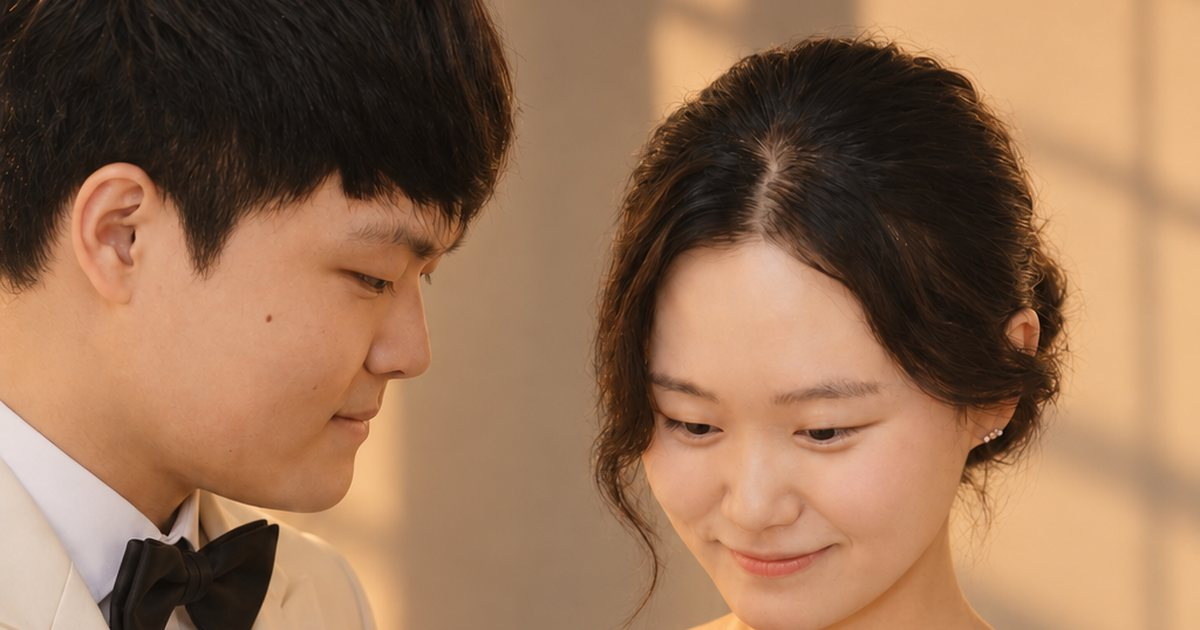
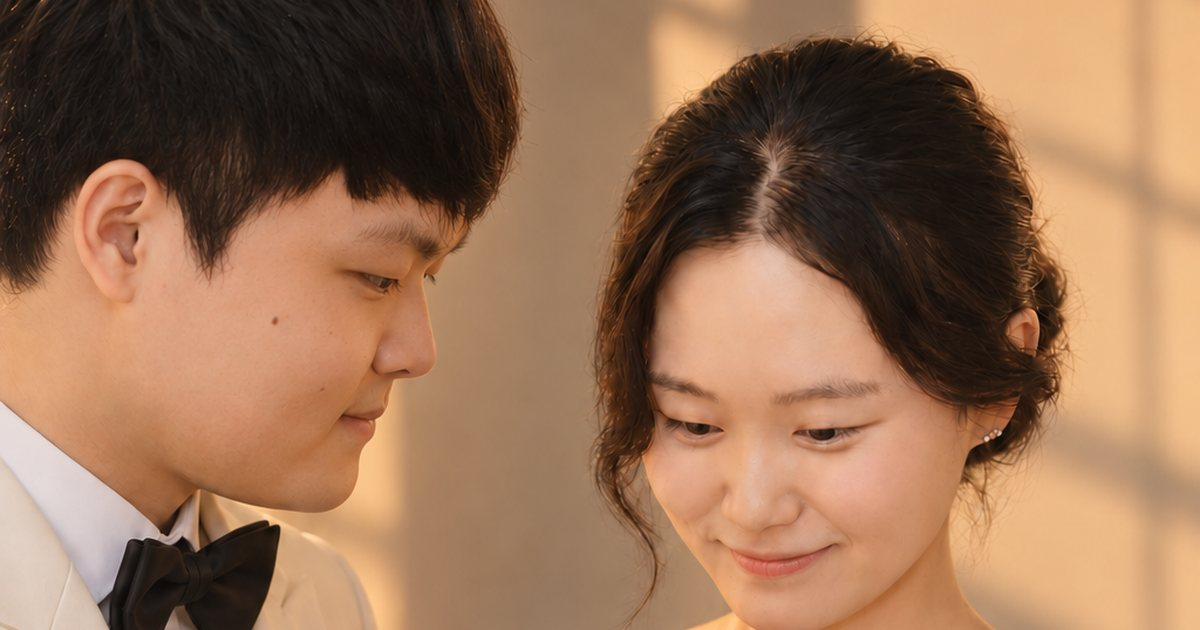
Update the ring photo with the latest retouch

diff --git a/index.html b/index.html
@@ -11,7 +11,7 @@
 <meta property="og:type" content="website">
 <meta property="og:title" content="이준규 · 이새빛 결혼합니다">
 <meta property="og:description" content="2027년 10월 2일 토요일 오후 2시 · 한국기독교연합회관 3층 연합웨딩홀">
-<meta property="og:image" content="https://jungyu0413.github.io/wedding/img/og.jpg?v=2">
+<meta property="og:image" content="https://jungyu0413.github.io/wedding/img/og.jpg?v=3">
 <meta property="og:image:width" content="1200">
 <meta property="og:image:height" content="630">
 <meta property="og:url" content="https://jungyu0413.github.io/wedding/">
